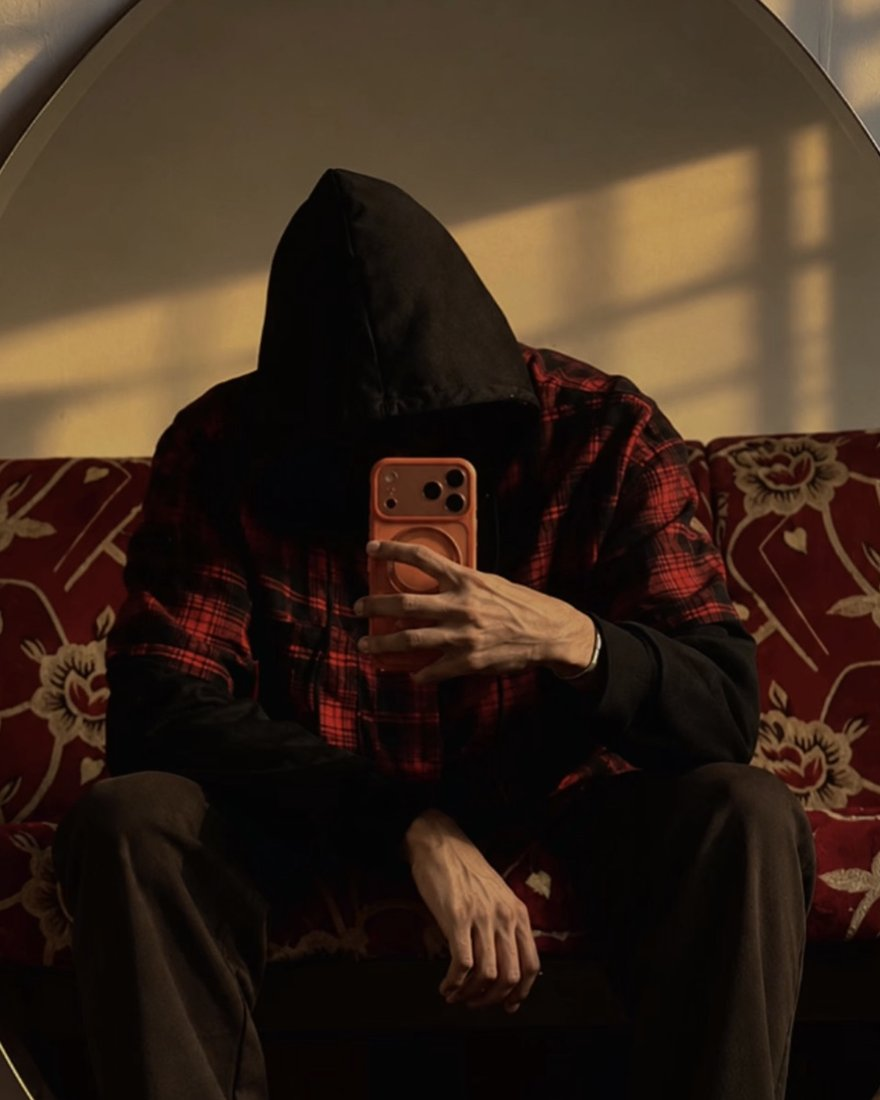
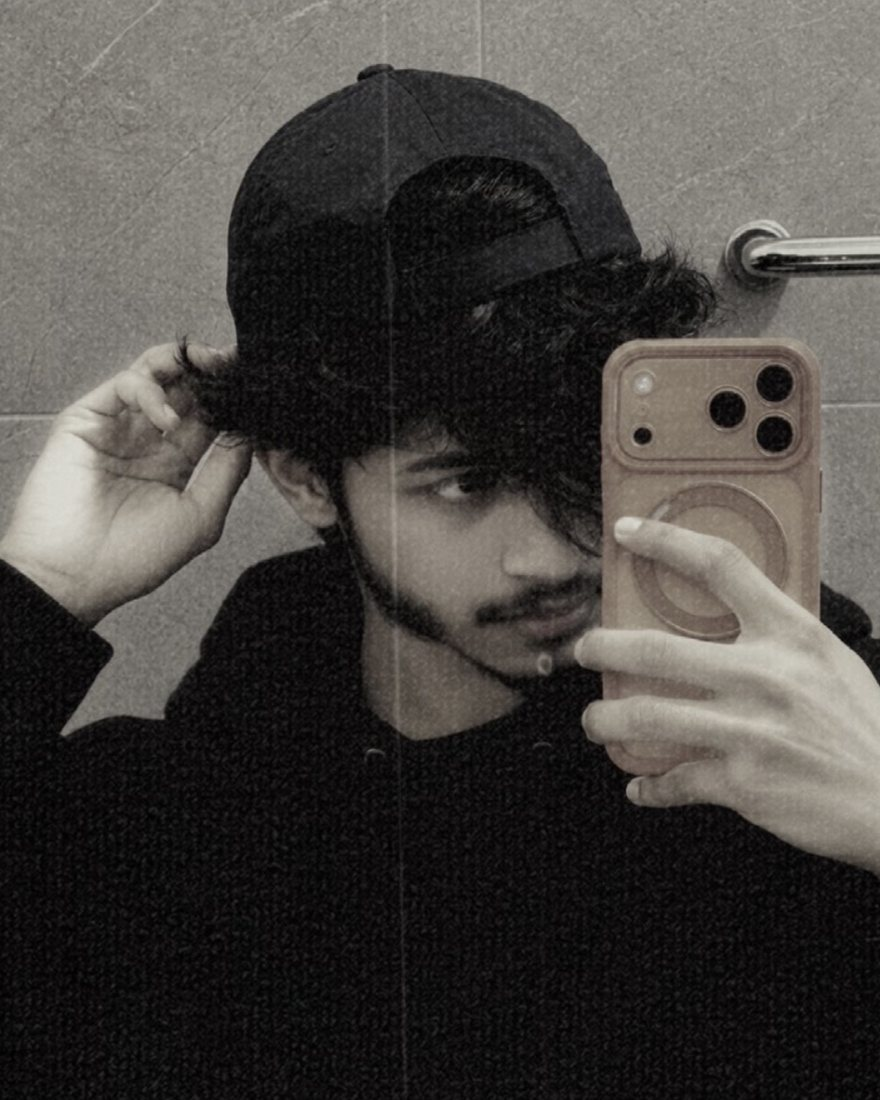
Website: the maker's new photo

diff --git a/docs/index.html b/docs/index.html
@@ -211,13 +211,13 @@
       </section>
 
       <section id="maker" class="maker">
-        <img src="assets/nimaa.jpg" alt="NiMAA, the maker of sonara, in a black hood holding a phone up to a mirror" loading="lazy" />
+        <img src="assets/nimaa.jpg" alt="NiMAA, the maker of sonara, in a black cap holding a phone up to a mirror" loading="lazy" />
         <div class="maker-copy">
           <h2>Made by one person.</h2>
           <p class="maker-name">
             Designed and built for <a href="https://flinnzee.github.io/Zyntech/">ZynTECH</a> by
-            <button type="button" class="who" data-who aria-label="NiMAA, press for the full name">
-              <span>NiMAA</span><span>Theekshana Nirmal</span>
+            <button type="button" class="who" data-who aria-label="NiMAA, press for the other name">
+              <span>NiMAA</span><span>dr.v0id</span>
             </button>
           </p>
           <p>

diff --git a/docs/site.js b/docs/site.js
@@ -132,7 +132,7 @@
   const who = document.querySelector('[data-who]')
   who?.addEventListener('click', () => {
     who.classList.toggle('full')
-    who.setAttribute('aria-label', who.classList.contains('full') ? 'Theekshana Nirmal (NiMAA)' : 'NiMAA, press for the full name')
+    who.setAttribute('aria-label', who.classList.contains('full') ? 'dr.v0id (NiMAA)' : 'NiMAA, press for the other name')
   })
 
   // ---------------------------------------------------------------- reveals
